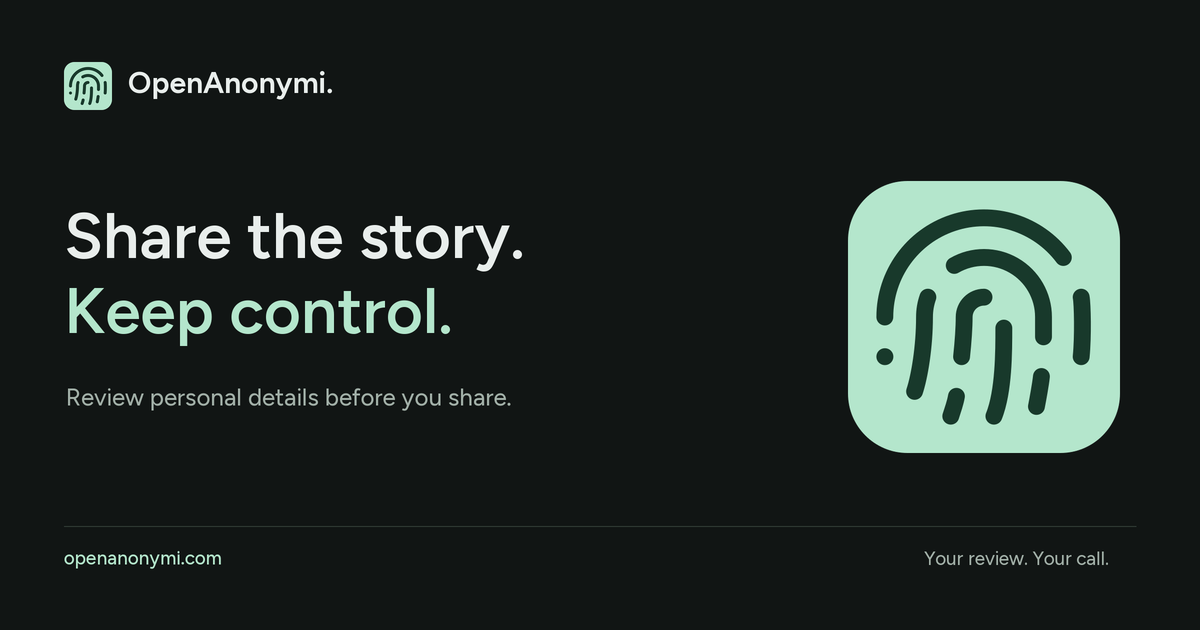
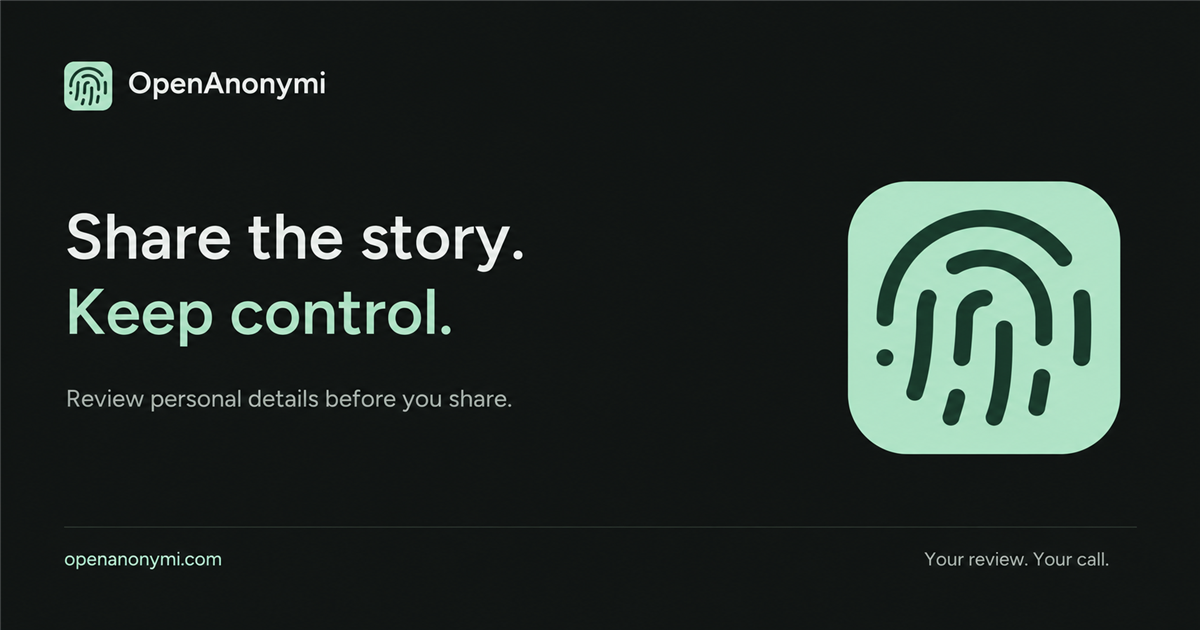
Use OpenAnonymi without a trailing dot in branding (#27)

diff --git a/frontend/index.html b/frontend/index.html
@@ -16,19 +16,19 @@
     <meta property="og:image:type" content="image/png" />
     <meta property="og:image:width" content="1200" />
     <meta property="og:image:height" content="630" />
-    <meta property="og:image:alt" content="OpenAnonymi. Share the story. Keep control. Review personal details before you share." />
+    <meta property="og:image:alt" content="OpenAnonymi — Share the story. Keep control. Review personal details before you share." />
     <meta name="twitter:card" content="summary_large_image" />
     <meta name="twitter:title" content="OpenAnonymi — Share the story. Keep control." />
     <meta name="twitter:description" content="Review personal details in text and documents. Choose what to hide, replace, or keep before you share." />
     <meta name="twitter:image" content="https://openanonymi.com/social-preview.png" />
-    <meta name="twitter:image:alt" content="OpenAnonymi. Share the story. Keep control. Review personal details before you share." />
+    <meta name="twitter:image:alt" content="OpenAnonymi — Share the story. Keep control. Review personal details before you share." />
     <script src="/theme-init.js"></script>
     <link rel="stylesheet" href="/startup.css" />
     <title>OpenAnonymi — Privacy review</title>
   </head>
   <body>
     <div id="startup-loading" class="startup-loading">
-      <header class="startup-brand"><svg viewBox="0 0 32 32" fill="none" aria-hidden="true"><path d="M5 15a11 11 0 0 1 22 0M9 24l1-10a6 6 0 0 1 12 0l-1 12M14 26l1-11m11 4-1 6M6 22l1-3M18 5a10 10 0 0 0-7 2" stroke="currentColor" stroke-width="1.7" stroke-linecap="round" /></svg>OpenAnonymi.</header>
+      <header class="startup-brand"><svg viewBox="0 0 32 32" fill="none" aria-hidden="true"><path d="M5 15a11 11 0 0 1 22 0M9 24l1-10a6 6 0 0 1 12 0l-1 12M14 26l1-11m11 4-1 6M6 22l1-3M18 5a10 10 0 0 0-7 2" stroke="currentColor" stroke-width="1.7" stroke-linecap="round" /></svg>OpenAnonymi</header>
       <main class="startup-center">
         <div class="startup-card">
           <div class="startup-mark" aria-hidden="true"><div class="startup-symbol"><svg viewBox="0 0 24 24" fill="none" stroke="currentColor" stroke-width="1.6" stroke-linecap="round" stroke-linejoin="round"><path d="M12 10a2 2 0 0 0-2 2c0 1.02-.1 2.51-.26 4M14 13.12c0 2.38 0 6.38-1 8.88M17.29 21.02c.12-.6.43-2.3.5-3.02M2 12a10 10 0 0 1 18-6M2 16h.01M21.8 16c.2-2 .131-5.354 0-6M5 19.5C5.5 18 6 15 6 12a6 6 0 0 1 .34-2M8.65 22c.21-.66.45-1.32.57-2M9 6.8a6 6 0 0 1 9 5.2v2" /></svg></div></div>

diff --git a/frontend/src/ui/Brand.tsx b/frontend/src/ui/Brand.tsx
@@ -6,11 +6,7 @@ export function Brand({ compact = false }: { compact?: boolean }) {
       <span className="brand-mark" aria-hidden="true">
         <Fingerprint size={24} strokeWidth={1.6} />
       </span>
-      {!compact && (
-        <span className="brand-wordmark">
-          OpenAnonymi<span className="brand-dot">.</span>
-        </span>
-      )}
+      {!compact && <span className="brand-wordmark">OpenAnonymi</span>}
     </span>
   )
 }

diff --git a/frontend/src/shell/shell.css b/frontend/src/shell/shell.css
@@ -37,9 +37,6 @@
   letter-spacing: -0.05em;
   color: var(--text, #e9eeec);
 }
-.brand-dot {
-  color: var(--tone-accent-soft, #add8ba);
-}
 .app-sidebar {
   position: sticky;
   top: 0;

diff --git a/backend/app/accounts/email_template.py b/backend/app/accounts/email_template.py
@@ -46,7 +46,7 @@ def email_html(subject: str, body: str, *, contact: str, code: str | None = None
 <tr><td align="center" style="padding:32px 16px">
 <table role="presentation" style="width:100%;max-width:560px;border-collapse:separate;background:#ffffff;border:1px solid #dbe3d9;border-radius:16px" cellpadding="0" cellspacing="0">
 <tr><td style="padding:24px;background:#173e30;border-radius:15px 15px 0 0">
-<span style="font-size:22px;font-weight:700;color:#ffffff">OpenAnonymi<span style="color:#b4e5cb">.</span></span>
+<span style="font-size:22px;font-weight:700;color:#ffffff">OpenAnonymi</span>
 <p style="margin:8px 0 0;font-size:11px;letter-spacing:1.5px;color:#c5ddcd">YOUR PRIVACY WORKSPACE</p>
 </td></tr>
 <tr><td style="padding:28px 24px">
